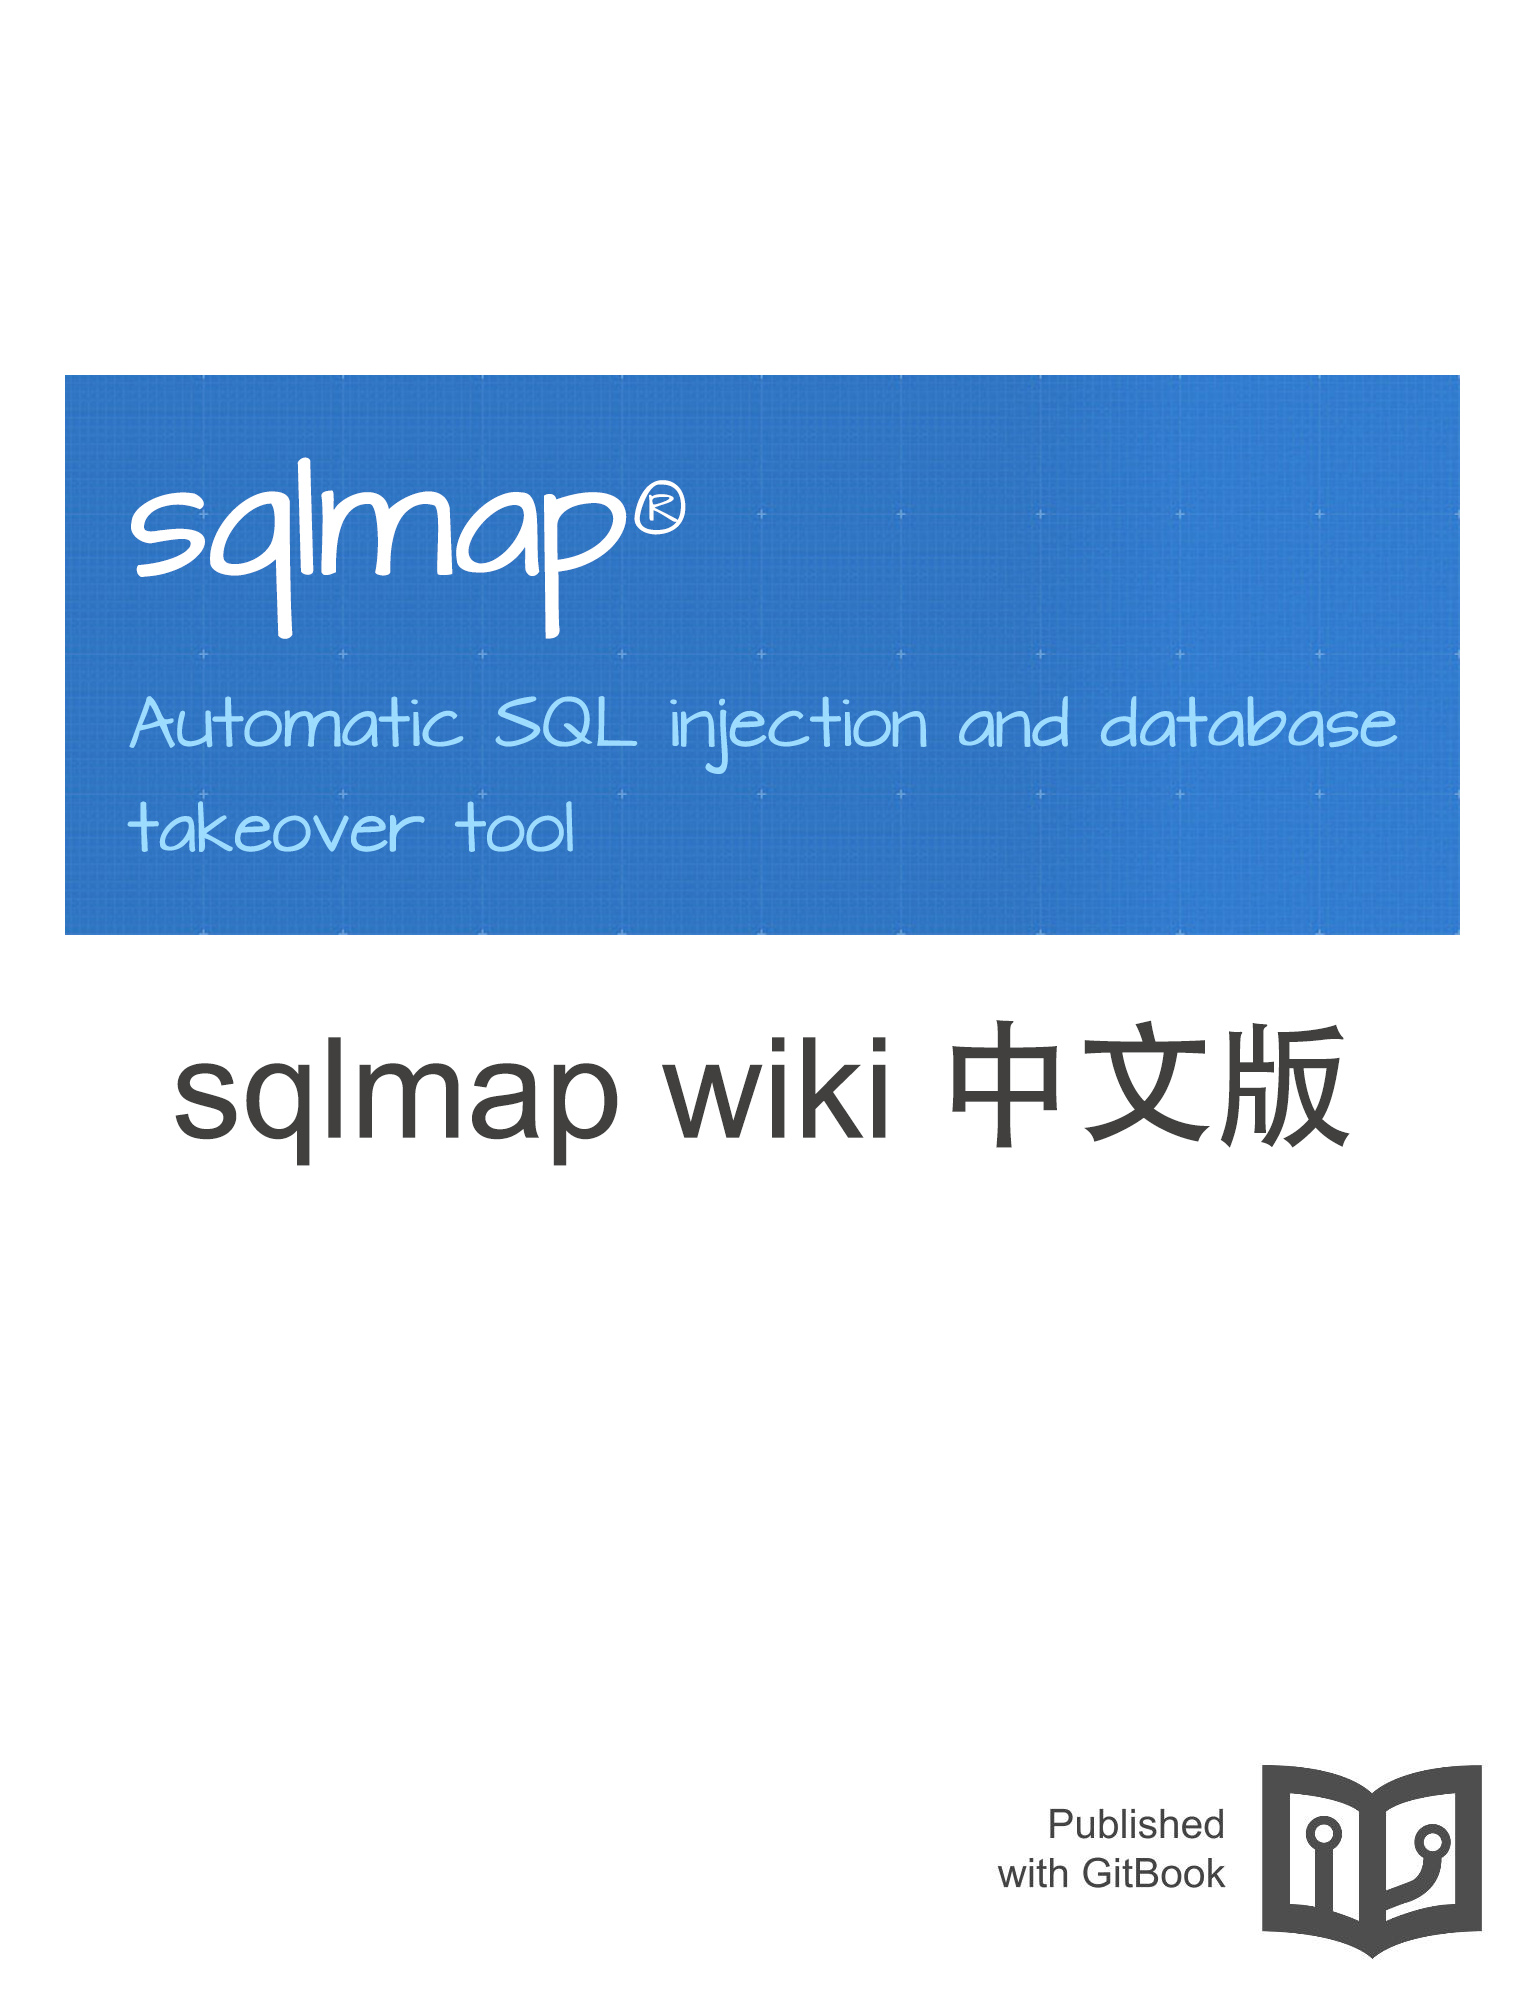
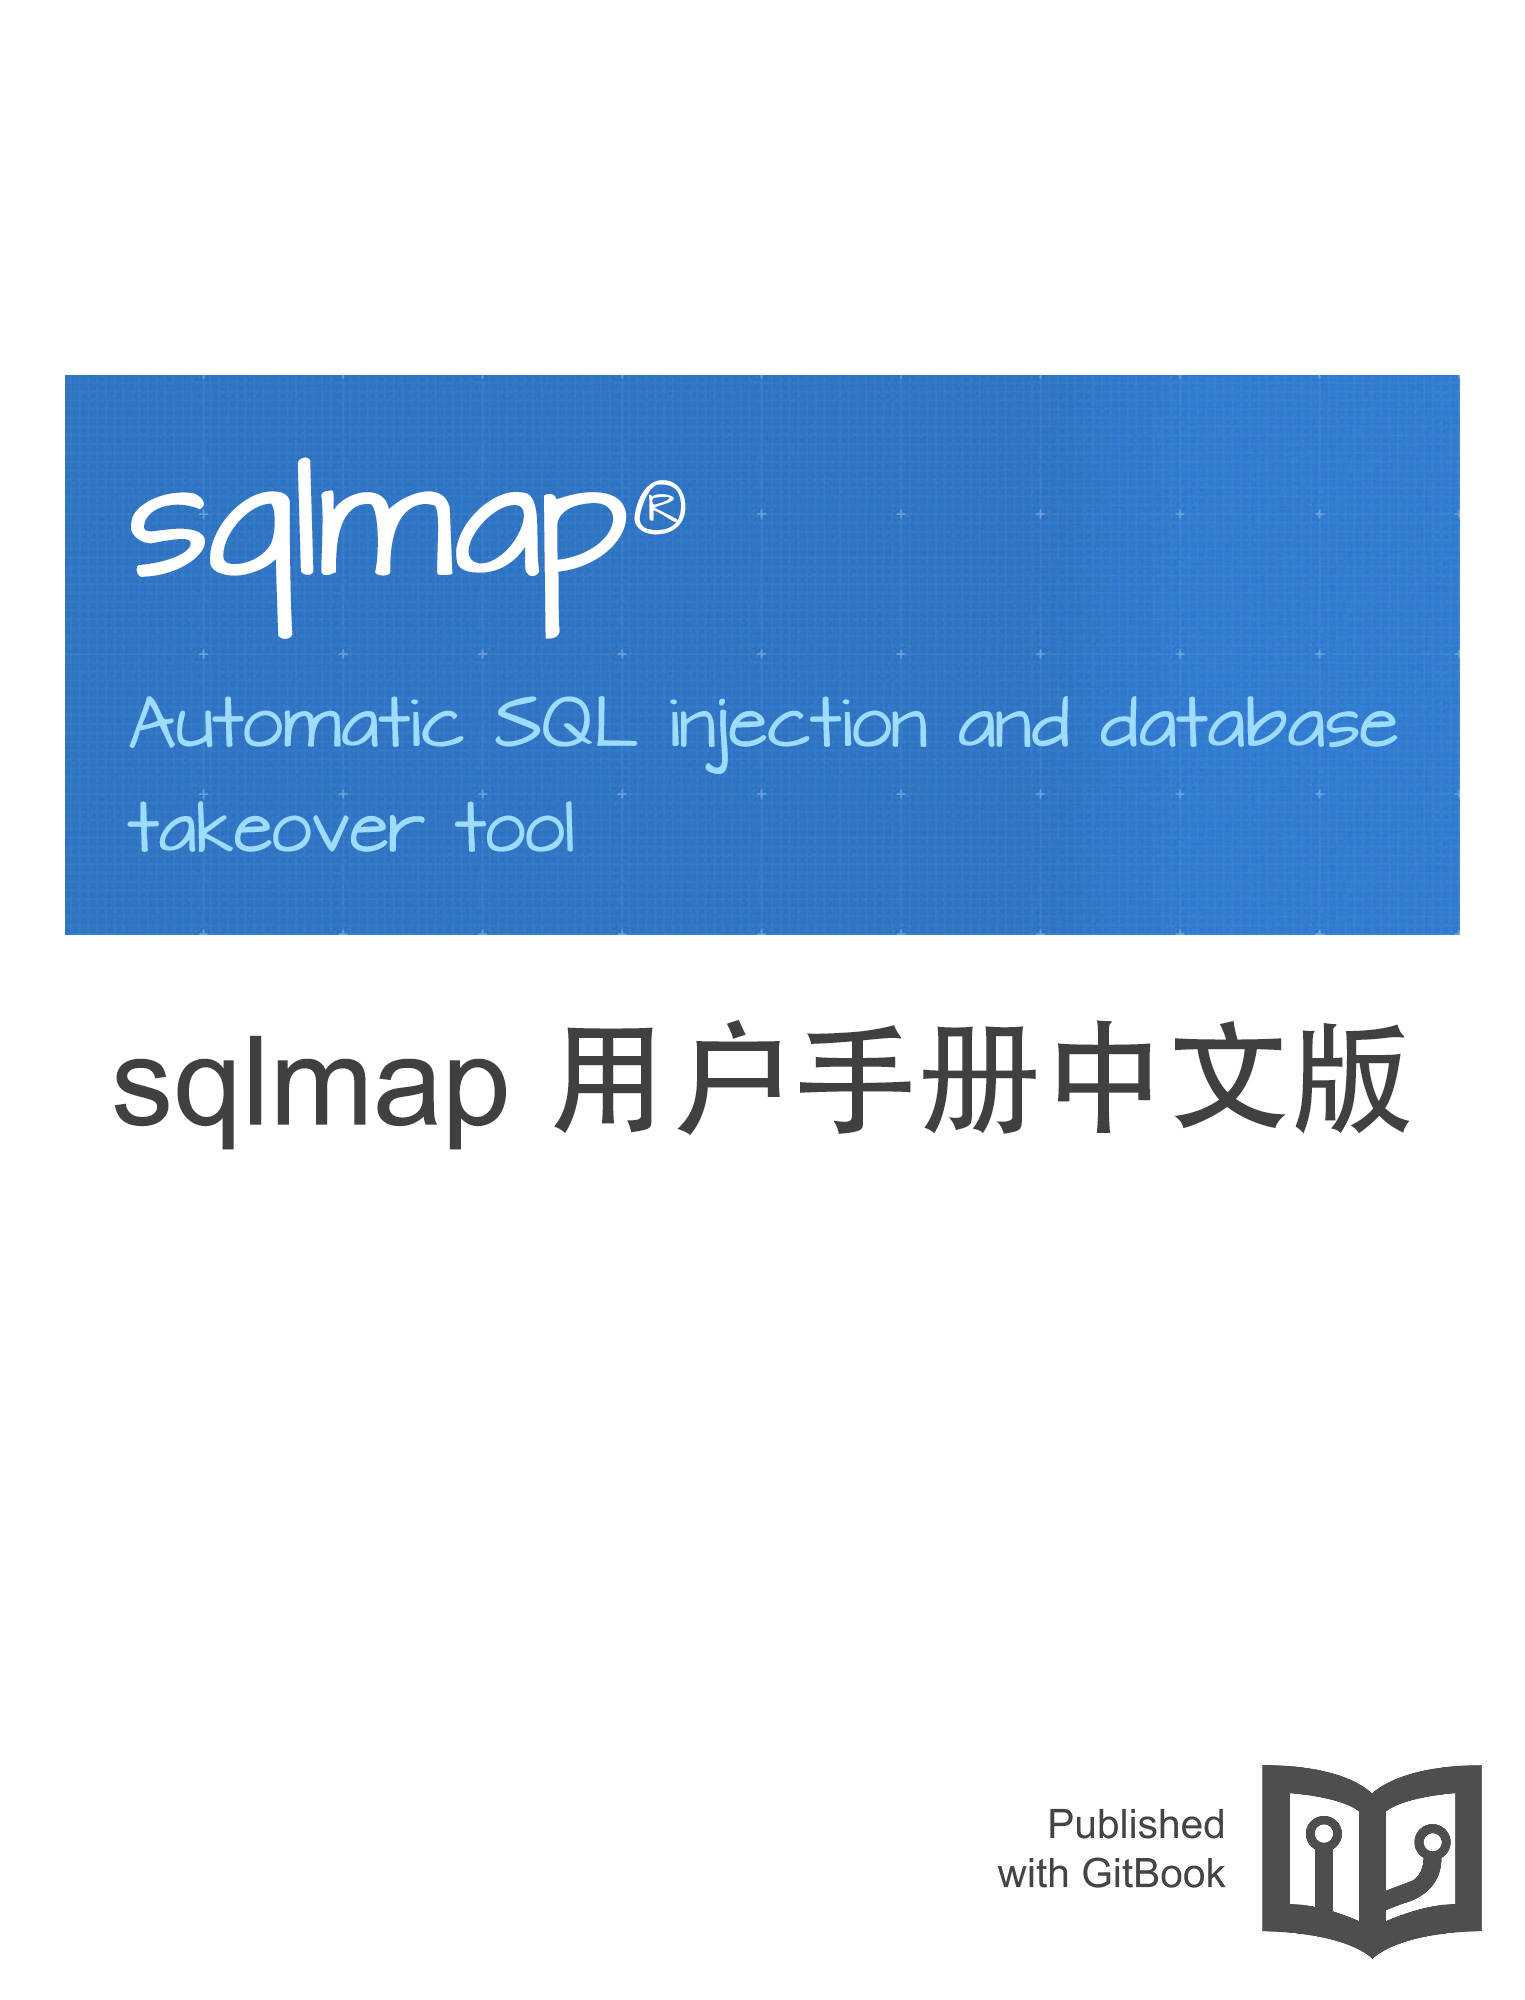
更新文档版本、修改书名

Changed region(s): [[0.0616, 0.496, 0.9246, 0.589]]

diff --git a/Users-manual/Usage/Usage.md b/Users-manual/Usage/Usage.md
@@ -40,14 +40,16 @@
     --auth-type=AUTH..  HTTP 认证方式（Basic，Digest，NTLM 或 PKI）
     --auth-cred=AUTH..  HTTP 认证凭证（username:password）
     --auth-file=AUTH..  HTTP 认证 PEM 证书/私钥文件
-    --ignore-401        忽略 HTTP 401（未授权）错误
+    --ignore-code=IG..  忽略 HTTP 错误码（例如：401）
+	--ignore-proxy      忽略系统默认代理设置
+	--ignore-redirects  忽略重定向尝试
+	--ignore-timeouts   忽略连接超时
     --proxy=PROXY       使用代理连接目标 URL
     --proxy-cred=PRO..  使用代理进行认证（username:password）
     --proxy-file=PRO..  从文件中加载代理列表
-    --ignore-proxy      忽略系统默认代理设置
     --tor               使用 Tor 匿名网络
     --tor-port=TORPORT  设置 Tor 代理端口代替默认端口
-    --tor-type=TORTYPE  设置 Tor 代理方式（HTTP（默认），SOCKS4 或 SOCKS5）
+    --tor-type=TORTYPE  设置 Tor 代理方式（HTTP，SOCKS4 或 SOCKS5（默认））
     --check-tor         检查是否正确使用了 Tor
     --delay=DELAY       设置每个 HTTP 请求的延迟秒数
     --timeout=TIMEOUT   设置连接响应的有效秒数（默认为 30）
@@ -163,8 +165,8 @@
     --exclude-sysdbs    枚举所有数据表时，指定排除特定系统数据库
     --pivot-column=P..  指定主列
     --where=DUMPWHERE   在转储表时使用 WHERE 条件语句
-    --start=LIMITSTART  指定获取返回查询结果的开始行数
-    --stop=LIMITSTOP    指定获取返回查询结果的结束行数
+    --start=LIMITSTART  指定要导出的数据表条目开始行数
+    --stop=LIMITSTOP    指定要导出的数据表条目结束行数
     --first=FIRSTCHAR   指定获取返回查询结果的开始字符位
     --last=LASTCHAR     指定获取返回查询结果的结束字符位
     --sql-query=QUERY   指定要执行的 SQL 语句
@@ -220,15 +222,18 @@
     -t TRAFFICFILE      保存所有 HTTP 流量记录到指定文本文件
     --batch             从不询问用户输入，使用默认配置
     --binary-fields=..  具有二进制值的结果字段（例如："digest"）
-    --charset=CHARSET   强制对获取数据进行字符编码
+    --check-internet    在访问目标之前检查是否正常连接互联网
     --crawl=CRAWLDEPTH  从目标 URL 开始爬取网站
     --crawl-exclude=..  用正则表达式筛选爬取的页面（例如："logout"）
     --csv-del=CSVDEL    指定输出到 CVS 文件时使用的分隔符（默认为“,”）
+    --charset=CHARSET   指定 SQL 盲注字符集（例如："0123456789abcdef"）
     --dump-format=DU..  导出数据的格式（CSV（默认），HTML 或 SQLITE）
+    --encoding=ENCOD..  指定获取数据时使用的字符编码（例如：GBK）
     --eta               显示每个结果输出的预计到达时间
     --flush-session     清空当前目标的会话文件
     --forms             解析并测试目标 URL 的表单
     --fresh-queries     忽略存储在会话文件中的查询结果
+    --har=HARFILE       将所有 HTTP 流量记录到一个 HAR 文件中
     --hex               获取数据时调用 DBMS 的 hex 函数
     --output-dir=OUT..  自定义输出目录路径
     --parse-errors      从响应中解析并显示 DBMS 错误信息
@@ -248,11 +253,13 @@
     --disable-coloring  关闭彩色控制台输出
     --gpage=GOOGLEPAGE  指定页码使用 Google dork 结果
     --identify-waf      针对 WAF/IPS/IDS 保护进行彻底的测试
-    --skip-waf          跳过启发式检测 WAF/IPS/IDS 保护
     --mobile            使用 HTTP User-Agent 模仿智能手机
     --offline           在离线模式下工作（仅使用会话数据）
     --purge-output      安全地删除输出目录的所有内容
+    --skip-waf          跳过启发式检测 WAF/IPS/IDS 保护
     --smart             只有在使用启发式检测时才进行彻底的测试
     --sqlmap-shell      调出交互式 sqlmap shell
+    --tmp-dir=TMPDIR    指定用于存储临时文件的本地目录
+	--web-root=WEBROOT  指定 Web 服务器根目录（例如："/var/www"）
     --wizard            适合初级用户的向导界面
 ```
